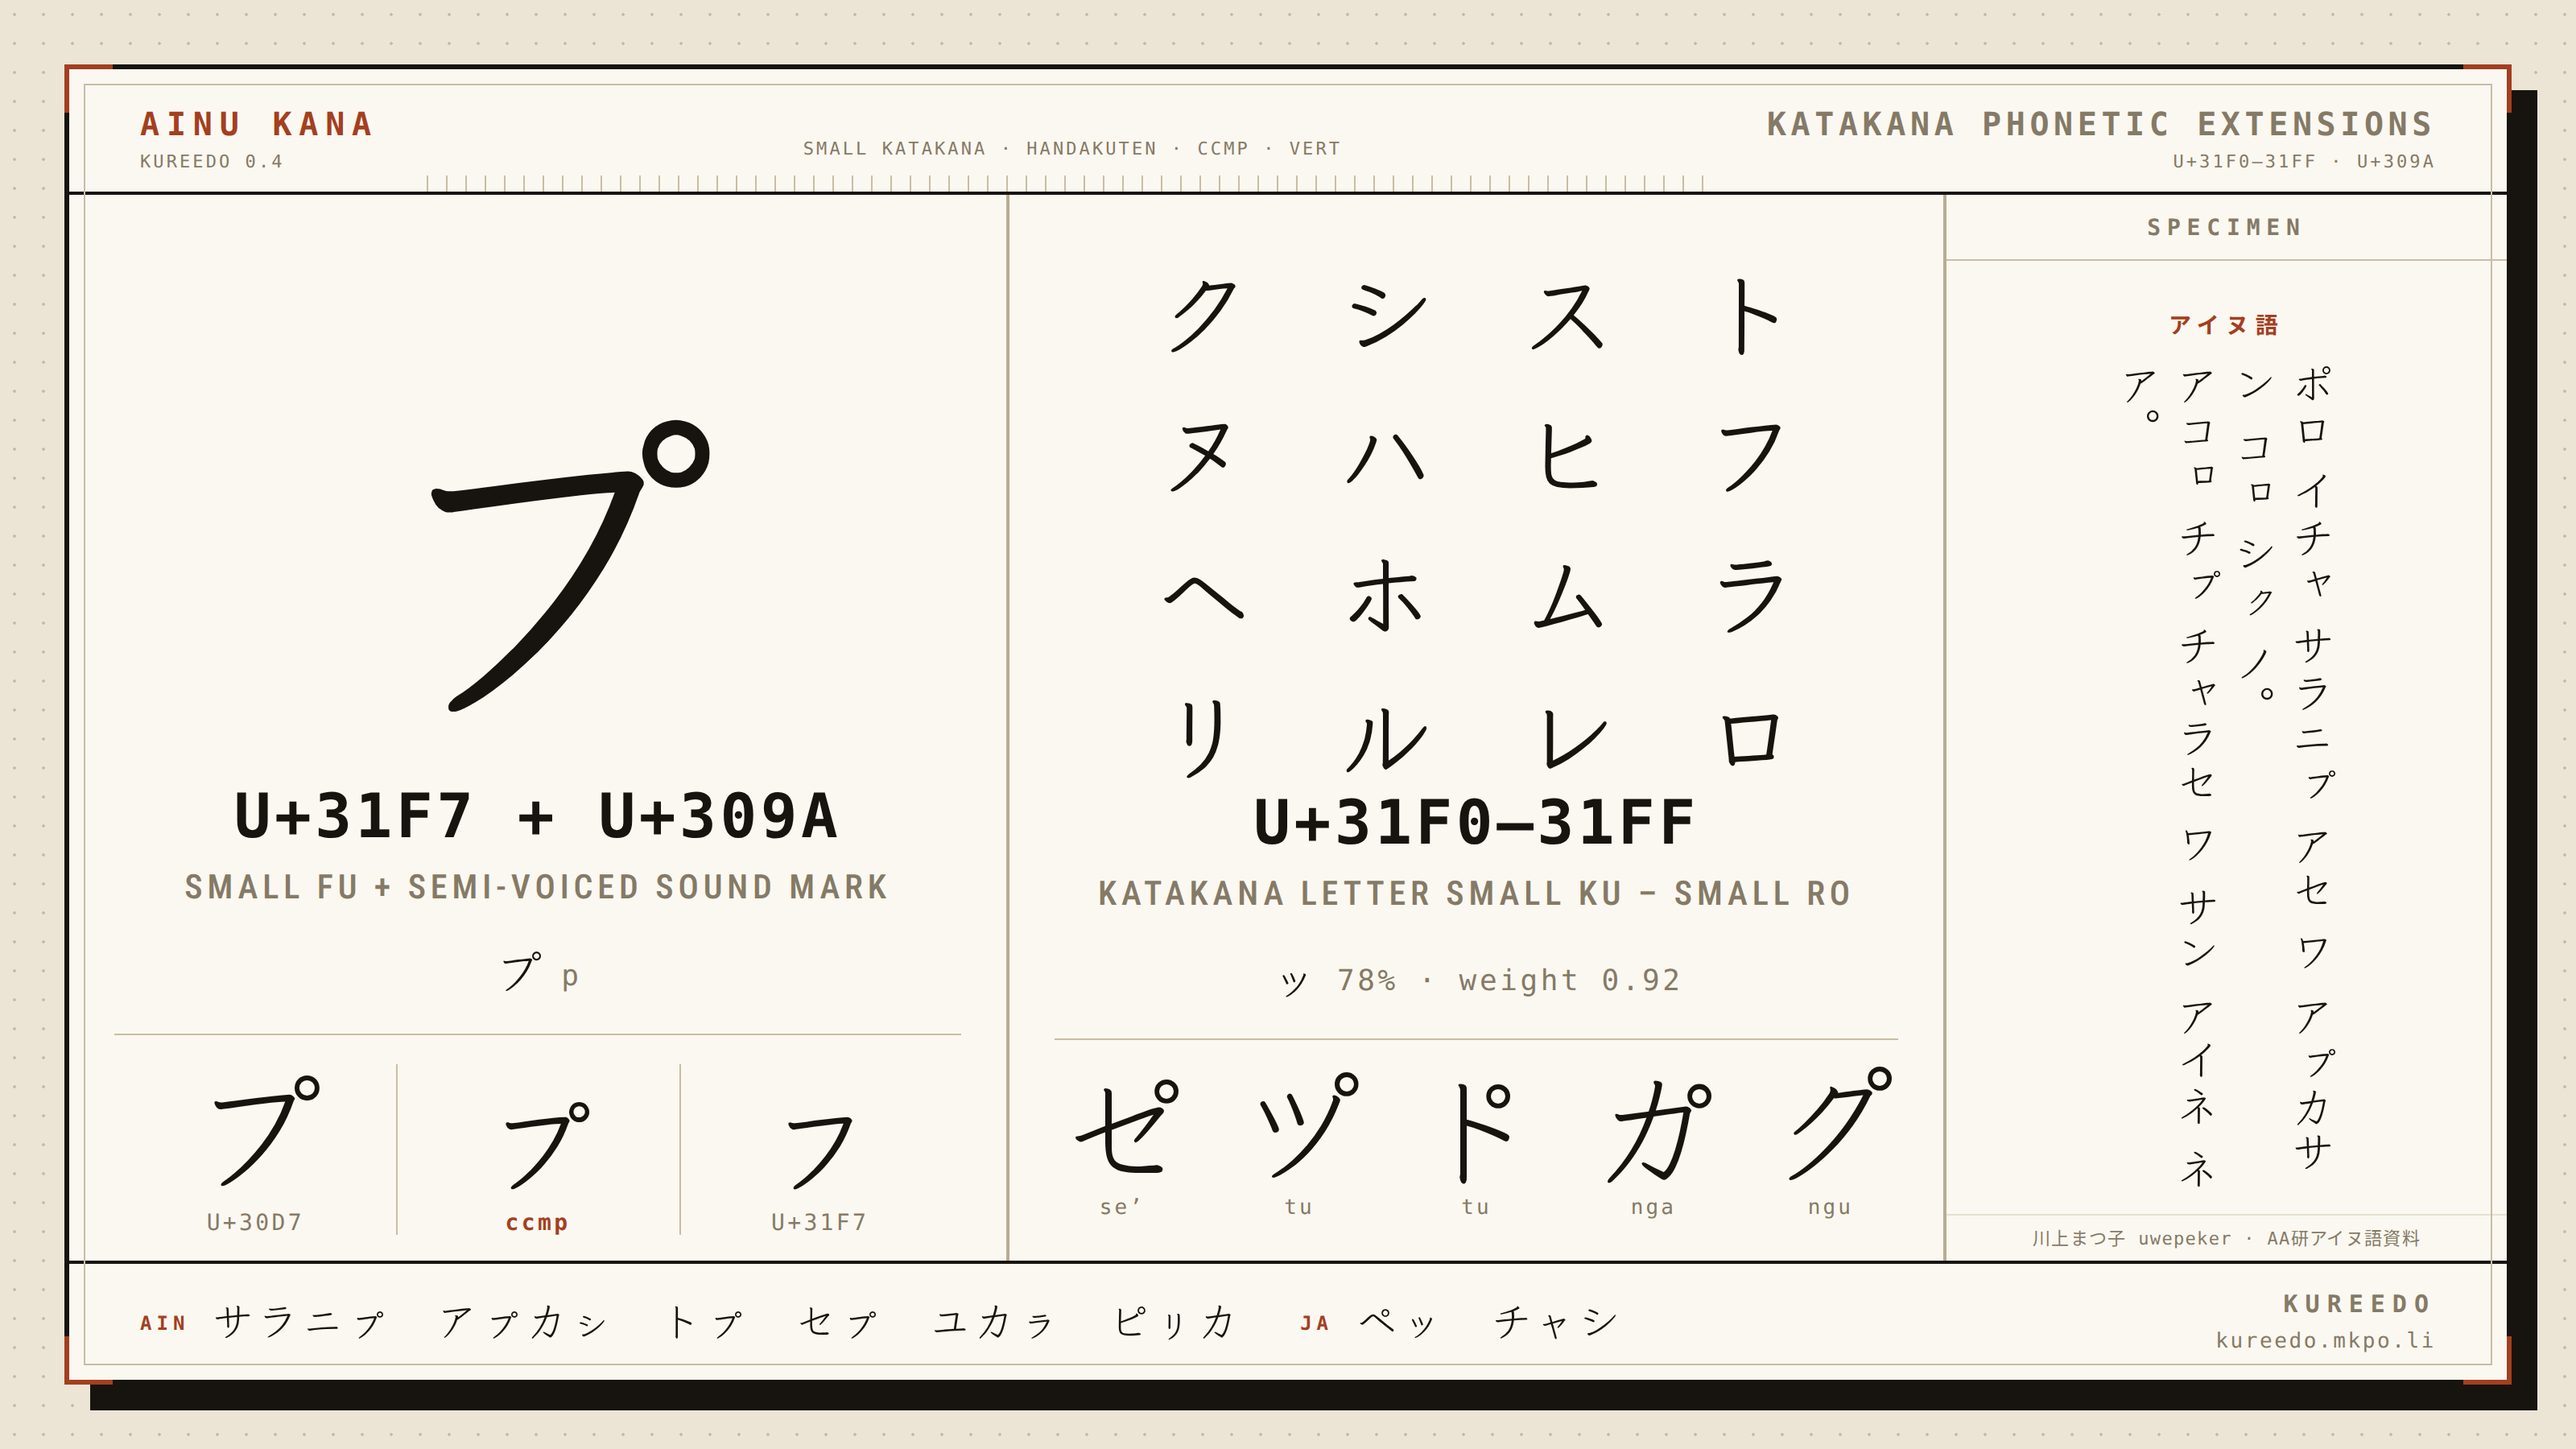
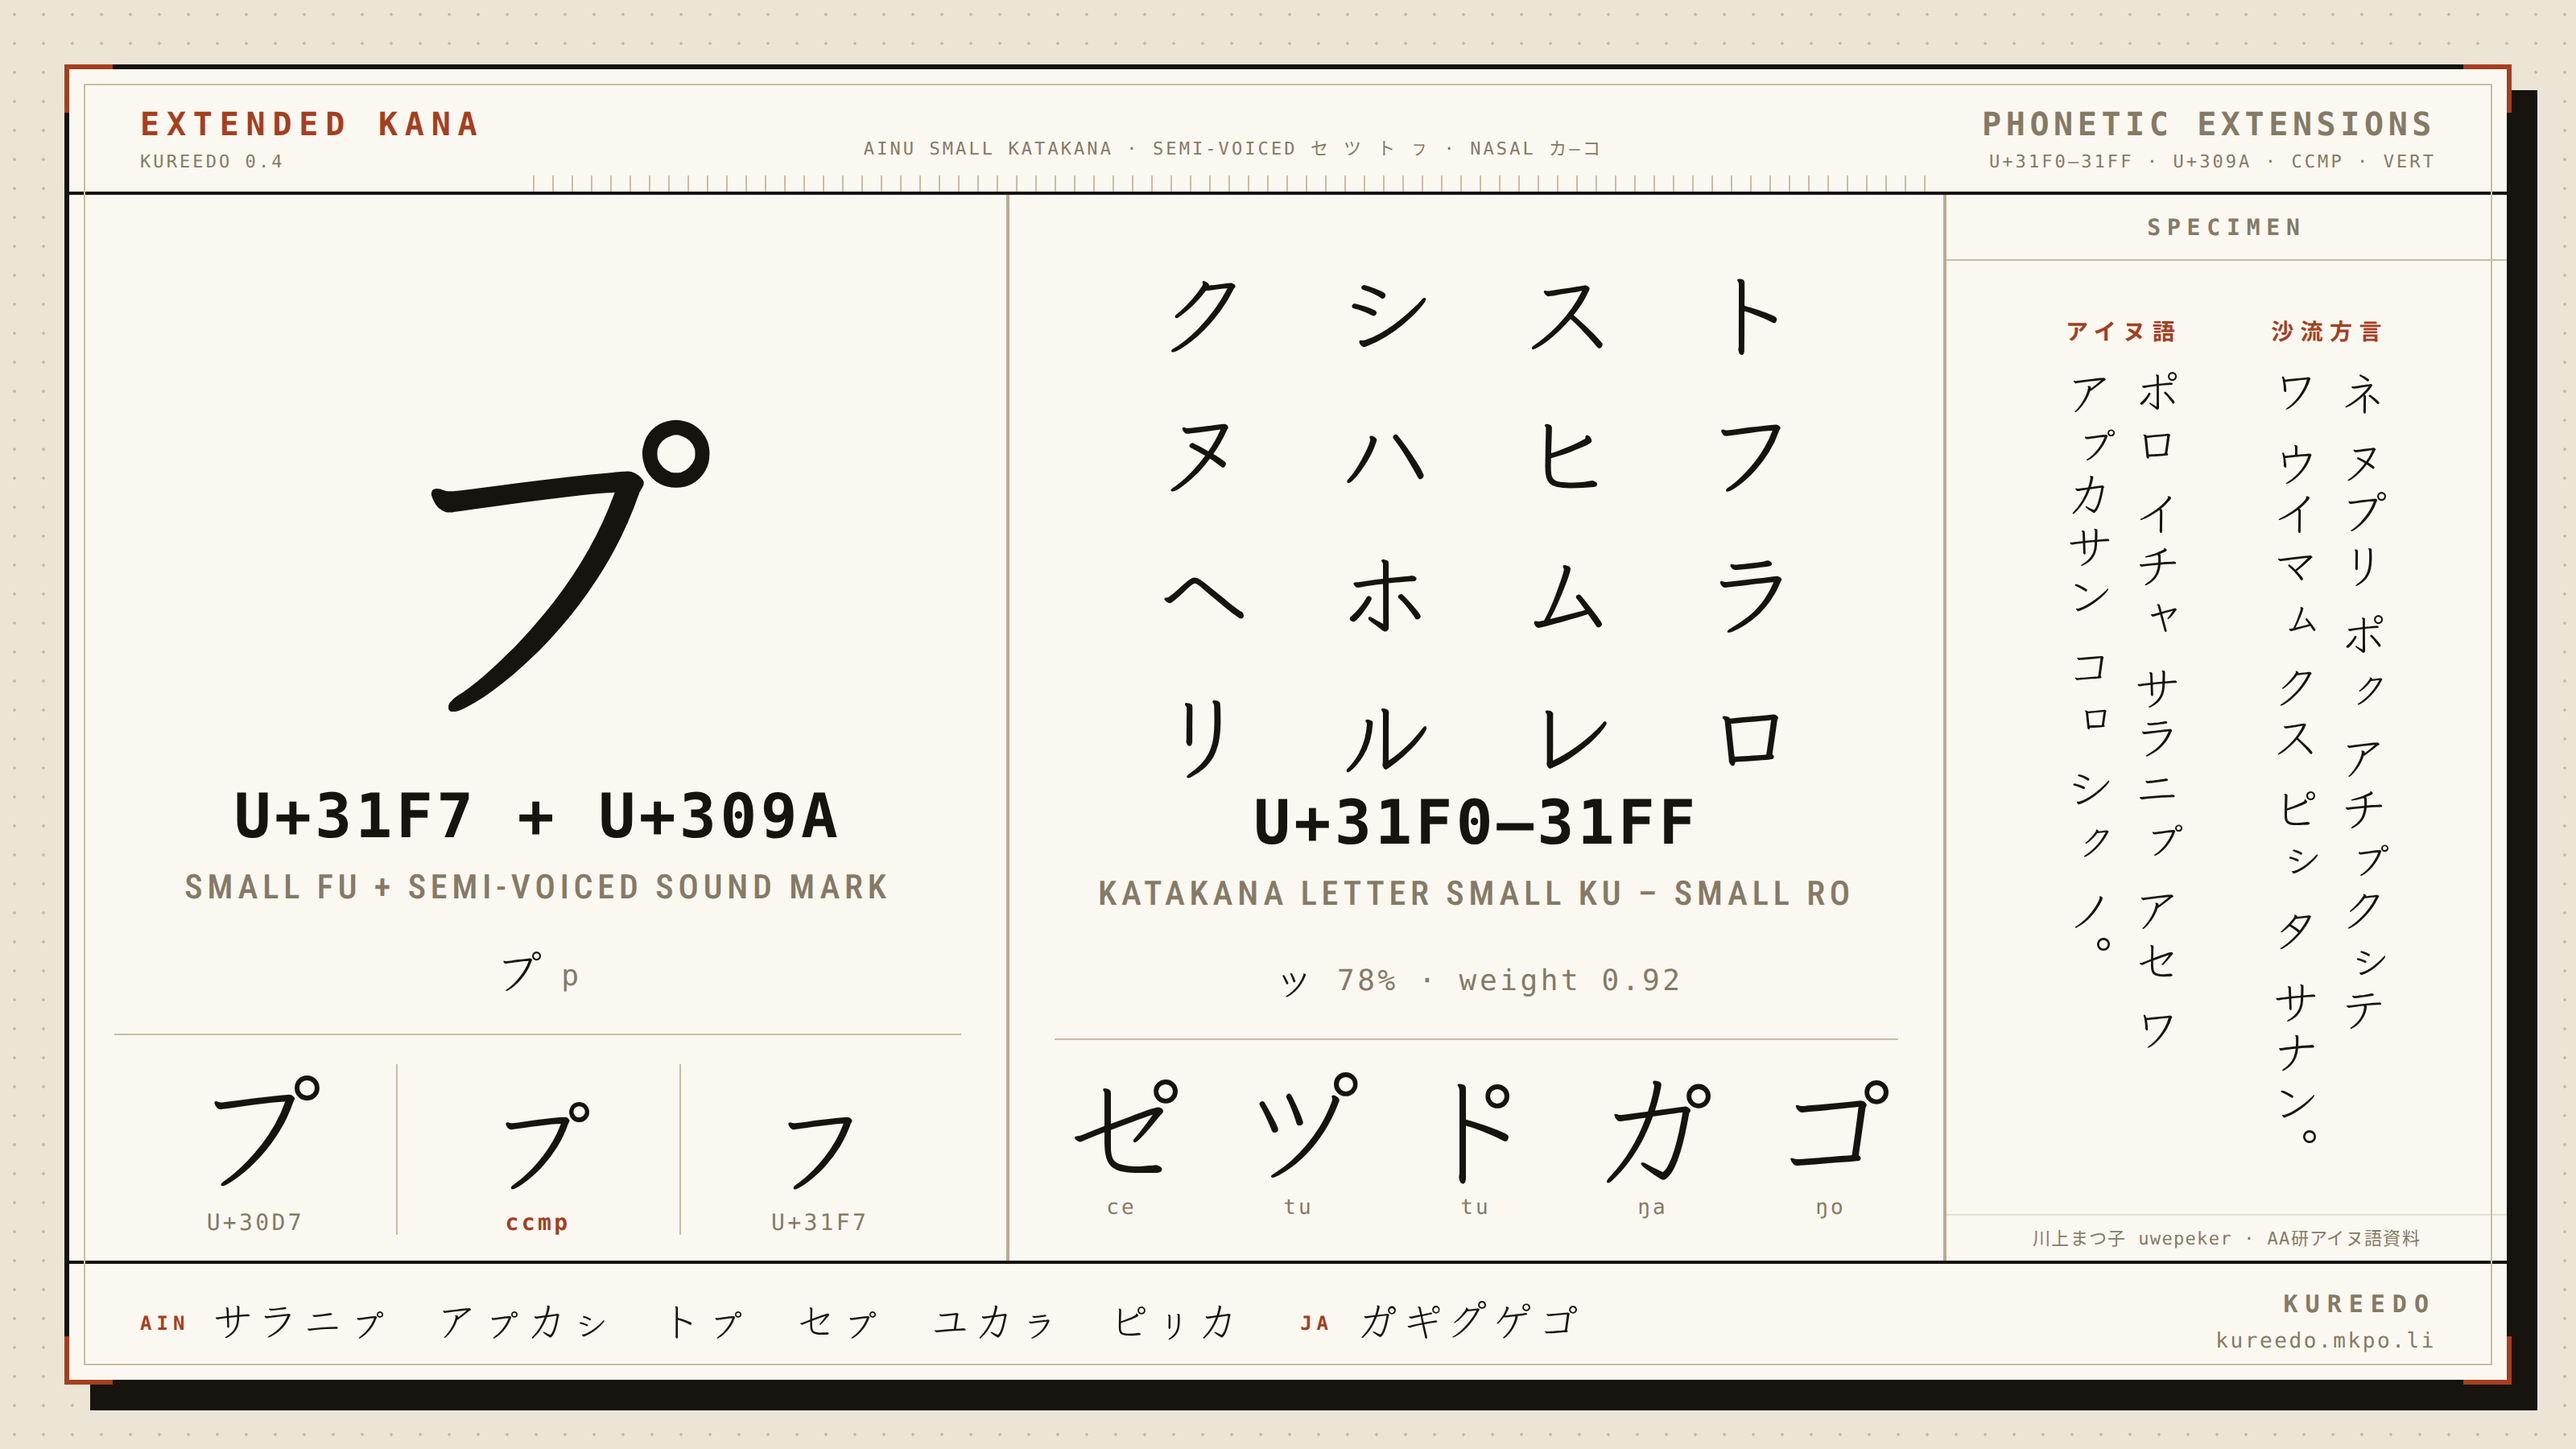
docs: extended-kana wording (Ainu small kana, semi-voiced, nasal カ゚–コ゚) on the site and the announcement card

diff --git a/site/public/index.html b/site/public/index.html
@@ -441,12 +441,12 @@
       <button id="theme" class="tag" type="button" aria-label="配色を切り替える　Toggle light and dark" title="明／暗"><span class="sun" aria-hidden="true">☀</span><span class="moon" aria-hidden="true">☾</span> <span>明／暗</span></button>
     </div>
     <div class="ticks" aria-hidden="true"></div>
-    <div class="mast-meta"><span class="label accent">Unicode 18.0 · Kana Extended-A</span><span class="label">アイヌ語仮名 ㇰ–ㇿ · ㇷ゚</span><span class="label">v0.4.2 · OFL 1.1</span></div>
+    <div class="mast-meta"><span class="label accent">Unicode 18.0 · Kana Extended-A</span><span class="label">拡張仮名 ㇰ–ㇿ · ㇷ゚ · カ゚</span><span class="label">v0.4.2 · OFL 1.1</span></div>
 
     <div class="intro">
     <div class="prose">
-      <p class="lead">Klee Oneに、江戸・明治の版本に見られる片仮名の字形を加えたフリーフォント。Unicode 18.0で符号化された<a class="ch" href="#hero" title="U+1B127 KATAKANA LETTER ALTERNATE NE">𛄧</a>と<a class="ch" href="#hero" title="U+1B128 KATAKANA LETTER ALTERNATE WI">𛄨</a>を収録し、<b class="ch">ネ</b><b class="ch">ヰ</b>からもOpenType機能<code>hist</code>で同じ字形に切り替えられる。アイヌ語の小書き片仮名<b class="ch">ㇰ–ㇿ</b>と、半濁点付きの<b class="ch">セ゚</b><b class="ch">ツ゚</b><b class="ch">ト゚</b><b class="ch">ㇷ゚</b>も収める。</p>
-      <p class="en" lang="en">A free font based on Klee One for historical Japanese katakana and Ainu. It includes the Edo–Meiji printed forms <a class="ch en" href="#hero" title="U+1B127 KATAKANA LETTER ALTERNATE NE">𛄧</a> and <a class="ch en" href="#hero" title="U+1B128 KATAKANA LETTER ALTERNATE WI">𛄨</a> (Unicode 18.0), also available from <b class="ch en">ネ</b> and <b class="ch en">ヰ</b> through <code>hist</code>. Ainu support covers small kana <b class="ch en">ㇰ–ㇿ</b> and kana with handakuten: <b class="ch en">セ゚</b> <b class="ch en">ツ゚</b> <b class="ch en">ト゚</b> <b class="ch en">ㇷ゚</b>.</p>
+      <p class="lead">Klee Oneに、江戸・明治の版本に見られる片仮名の字形を加えたフリーフォント。Unicode 18.0で符号化された<a class="ch" href="#hero" title="U+1B127 KATAKANA LETTER ALTERNATE NE">𛄧</a>と<a class="ch" href="#hero" title="U+1B128 KATAKANA LETTER ALTERNATE WI">𛄨</a>を収録し、<b class="ch">ネ</b><b class="ch">ヰ</b>からもOpenType機能<code>hist</code>で同じ字形に切り替えられる。アイヌ語の小書き片仮名<b class="ch">ㇰ–ㇿ</b>、半濁点付きの<b class="ch">セ゚</b><b class="ch">ツ゚</b><b class="ch">ト゚</b><b class="ch">ㇷ゚</b>、鼻濁音の<b class="ch">カ゚</b>–<b class="ch">コ゚</b>も収める。</p>
+      <p class="en" lang="en">A free font based on Klee One for historical Japanese katakana and Ainu. It includes the Edo–Meiji printed forms <a class="ch en" href="#hero" title="U+1B127 KATAKANA LETTER ALTERNATE NE">𛄧</a> and <a class="ch en" href="#hero" title="U+1B128 KATAKANA LETTER ALTERNATE WI">𛄨</a> (Unicode 18.0), also available from <b class="ch en">ネ</b> and <b class="ch en">ヰ</b> through <code>hist</code>. Extended kana: the Ainu small kana <b class="ch en">ㇰ–ㇿ</b>, the semi-voiced <b class="ch en">セ゚</b> <b class="ch en">ツ゚</b> <b class="ch en">ト゚</b> <b class="ch en">ㇷ゚</b>, and the nasal <b class="ch en">カ゚</b>–<b class="ch en">コ゚</b>.</p>
     </div>
       <ul class="small-links">
         <li><a href="https://github.com/mkpoli/kureedo/releases">すべてのリリース　All releases</a></li>
@@ -468,7 +468,7 @@
       <a href="#tester"><b>01</b>試し書き</a>
       <a href="#before-after"><b>02</b>比較</a>
       <a href="#specimen"><b>03</b>見本</a>
-      <a href="#ainu"><b>05</b>アイヌ語の仮名</a>
+      <a href="#ainu"><b>05</b>拡張仮名</a>
       <a href="#features"><b>06</b>OpenType機能</a>
       <a href="#glyphs"><b>07</b>収録文字</a>
       <a href="#sources"><b>08</b>字源</a>
@@ -563,12 +563,12 @@
   </section>
 
   <section>
-    <h2 id="ainu"><span class="ja">アイヌ語の仮名</span><span lang="en">Ainu kana and marks</span><span class="line"></span><span class="num">05</span></h2>
-    <p class="marks">セ゚ ツ゚ ト゚ ㇷ゚ カ゚</p>
+    <h2 id="ainu"><span class="ja">拡張仮名</span><span lang="en">Extended kana</span><span class="line"></span><span class="num">05</span></h2>
+    <p class="marks">セ゚ ツ゚ ト゚ ㇷ゚　カ゚ キ゚ ク゚ ケ゚ コ゚</p>
     <p class="marks">ㇰㇱㇲㇳㇴㇵㇶㇷㇸㇹㇺㇻㇼㇽㇾㇿ</p>
     <p class="run"><span>エペッチウ サㇰ ノ ピㇼカ アㇷ゚カㇱ チキ ワ ホシッパアㇱ ペ ネ ア コㇿカ。</span><span>ペッ ペㇱ アコㇿ チㇷ゚ アキル アクㇱ オラノ カイペ クㇽカ エチャラセ ペコㇿ。</span></p>
-    <p class="prose">小書き片仮名<b class="ch">ㇰ–ㇿ</b>（U+31F0–31FF）はKlee Oneの<b class="ch">ッ</b><b class="ch">ァ</b>と同じ比率で組み、半濁点は<code>ccmp</code>合字によって<b class="ch">プ</b>と同じ位置で一つの升目に収める。 用例は川上まつ子のウウェペケㇾ（AA研アイヌ語資料）より引用。</p>
-    <p class="en prose" lang="en">Small kana U+31F0–31FF at the proportions of Klee One's own <b class="ch en">ッ</b> and <b class="ch en">ァ</b>; <code>ccmp</code> ligatures set the handakuten in one cell where <b class="ch en">プ</b> carries it. Sample sentences from 川上まつ子's uwepeker (<a href="https://ainugo.aa-ken.jp/">AA研アイヌ語資料</a>).</p>
+    <p class="prose">小書き片仮名<b class="ch">ㇰ–ㇿ</b>（U+31F0–31FF）はKlee Oneの<b class="ch">ッ</b><b class="ch">ァ</b>と同じ比率で組み、半濁点は<code>ccmp</code>合字によって一つの升目に収め、<b class="ch">ㇷ゚</b>では<b class="ch">プ</b>と同じ位置に、<b class="ch">セ゚</b><b class="ch">ツ゚</b><b class="ch">ト゚</b>と鼻濁音の<b class="ch">カ゚</b>–<b class="ch">コ゚</b>ではKlee Oneが濁点を置く位置に置く。用例は川上まつ子のウウェペケㇾ（AA研アイヌ語資料）より引用。</p>
+    <p class="en prose" lang="en">Small kana U+31F0–31FF at the proportions of Klee One's own <b class="ch en">ッ</b> and <b class="ch en">ァ</b>; <code>ccmp</code> ligatures set the handakuten in one cell: on <b class="ch en">ㇷ゚</b> where <b class="ch en">プ</b> carries it, on <b class="ch en">セ゚</b> <b class="ch en">ツ゚</b> <b class="ch en">ト゚</b> and the nasal <b class="ch en">カ゚</b>–<b class="ch en">コ゚</b> where Klee One places its dakuten. Sample sentences from 川上まつ子's uwepeker (<a href="https://ainugo.aa-ken.jp/">AA研アイヌ語資料</a>).</p>
   </section>
 
   <section>

diff --git a/docs/images/ainu-card.html b/docs/images/ainu-card.html
@@ -40,10 +40,10 @@
   .side { border-left: 2px solid #b9ac93; display: grid; grid-template-rows: auto 1fr auto; }
   .cols { align-items: stretch; }
   .side h3 { margin: 0; padding: 14px 0 12px; text-align: center; font: 600 14px/1 ui-monospace, monospace; letter-spacing: .28em; color: var(--muted); border-bottom: 1px solid var(--rule); }
-  .cols { display: flex; justify-content: center; gap: 30px; padding: 30px 12px 4px; min-height: 0; }
+  .cols { display: flex; justify-content: center; gap: 44px; padding: 34px 12px 8px; min-height: 0; }
   .col { display: flex; flex-direction: column; align-items: center; gap: 12px; min-height: 0; }
   .col .tag { font: 700 14px 'Noto Sans CJK JP', sans-serif; letter-spacing: .3em; color: var(--accent); }
-  .col p { writing-mode: vertical-rl; font-size: 27px; line-height: 1.32; margin: 0; letter-spacing: .05em; flex: 1; min-height: 0; }
+  .col p { writing-mode: vertical-rl; font-size: 30px; line-height: 1.4; margin: 0; letter-spacing: .05em; flex: 1; min-height: 0; }
   .src { font: 500 11px/1 ui-monospace, monospace; color: var(--muted); letter-spacing: .06em; text-align: center; padding: 9px 12px 8px; border-top: 1px solid var(--rule2); }
   .bot { display: grid; grid-template-columns: 1fr 240px; align-items: center; padding: 0 44px; border-top: 2px solid var(--ink); overflow: hidden; }
   .bot .s { font-size: 26px; line-height: 1; letter-spacing: .07em; white-space: nowrap; display: flex; align-items: center; gap: 14px; }
@@ -60,7 +60,7 @@
 </style>
 <div class="frame">
   <span class="corner c1"></span><span class="corner c2"></span><span class="corner c3"></span><span class="corner c4"></span>
-  <div class="top"><span class="ver">AINU KANA<small>KUREEDO 0.4</small></span><span class="mid"><span class="prov">SMALL KATAKANA · HANDAKUTEN · CCMP · VERT</span><span class="ticks"></span></span><span class="blk">KATAKANA PHONETIC EXTENSIONS<small>U+31F0–31FF · U+309A</small></span></div>
+  <div class="top"><span class="ver">EXTENDED KANA<small>KUREEDO 0.4</small></span><span class="mid"><span class="prov">AINU SMALL KATAKANA · SEMI-VOICED セ ツ ト ㇷ · NASAL カ–コ</span><span class="ticks"></span></span><span class="blk">PHONETIC EXTENSIONS<small>U+31F0–31FF · U+309A · CCMP · VERT</small></span></div>
   <div class="body">
     <div class="char">
       <div class="g">ㇷ゚</div>
@@ -74,18 +74,19 @@
     <div class="char">
       <div class="grid16"><span>ㇰ</span><span>ㇱ</span><span>ㇲ</span><span>ㇳ</span><span>ㇴ</span><span>ㇵ</span><span>ㇶ</span><span>ㇷ</span><span>ㇸ</span><span>ㇹ</span><span>ㇺ</span><span>ㇻ</span><span>ㇼ</span><span>ㇽ</span><span>ㇾ</span><span>ㇿ</span></div>
       <div class="meta"><div class="cp">U+31F0–31FF</div><div class="nm">KATAKANA LETTER SMALL KU – SMALL RO</div><div class="eq"><b>ッ</b>78% · weight 0.92</div></div>
-      <div class="marks"><span>セ゚<small>se’</small></span><span>ツ゚<small>tu</small></span><span>ト゚<small>tu</small></span><span>カ゚<small>nga</small></span><span>ク゚<small>ngu</small></span></div>
+      <div class="marks"><span>セ゚<small>ce</small></span><span>ツ゚<small>tu</small></span><span>ト゚<small>tu</small></span><span>カ゚<small>ŋa</small></span><span>コ゚<small>ŋo</small></span></div>
     </div>
     <div class="side">
       <h3>SPECIMEN</h3>
       <div class="cols">
-        <div class="col"><span class="tag">アイヌ語</span><p>ポロ イチャ サラニㇷ゚ アセ ワ アㇷ゚カサン コㇿ シㇰ ノ。<br>アコㇿ チㇷ゚ チャラセ ワ サン アイネ ネア。</p></div>
+        <div class="col"><span class="tag">アイヌ語</span><p>ポロ イチャ サラニㇷ゚ アセ ワ<br>アㇷ゚カサン コㇿ シㇰ ノ。</p></div>
+        <div class="col"><span class="tag">沙流方言</span><p>ネ ヌプリ ポㇰ アチㇷ゚クㇱテ<br>ワ ウイマㇺ クス ピㇱ タ サナン。</p></div>
       </div>
       <div class="src">川上まつ子 uwepeker · AA研アイヌ語資料</div>
     </div>
   </div>
   <div class="bot">
-    <span class="s"><small>AIN</small><span>サラニㇷ゚　アㇷ゚カㇱ　トㇷ゚　セㇷ゚　ユカㇻ　ピㇼカ</span><small>JA</small><span>ペッ　チャシ</span></span>
+    <span class="s"><small>AIN</small><span>サラニㇷ゚　アㇷ゚カㇱ　トㇷ゚　セㇷ゚　ユカㇻ　ピㇼカ</span><small>JA</small><span>カ゚キ゚ク゚ケ゚コ゚</span></span>
     <span class="note"><b>KUREEDO</b>kureedo.mkpo.li</span>
   </div>
 </div>
